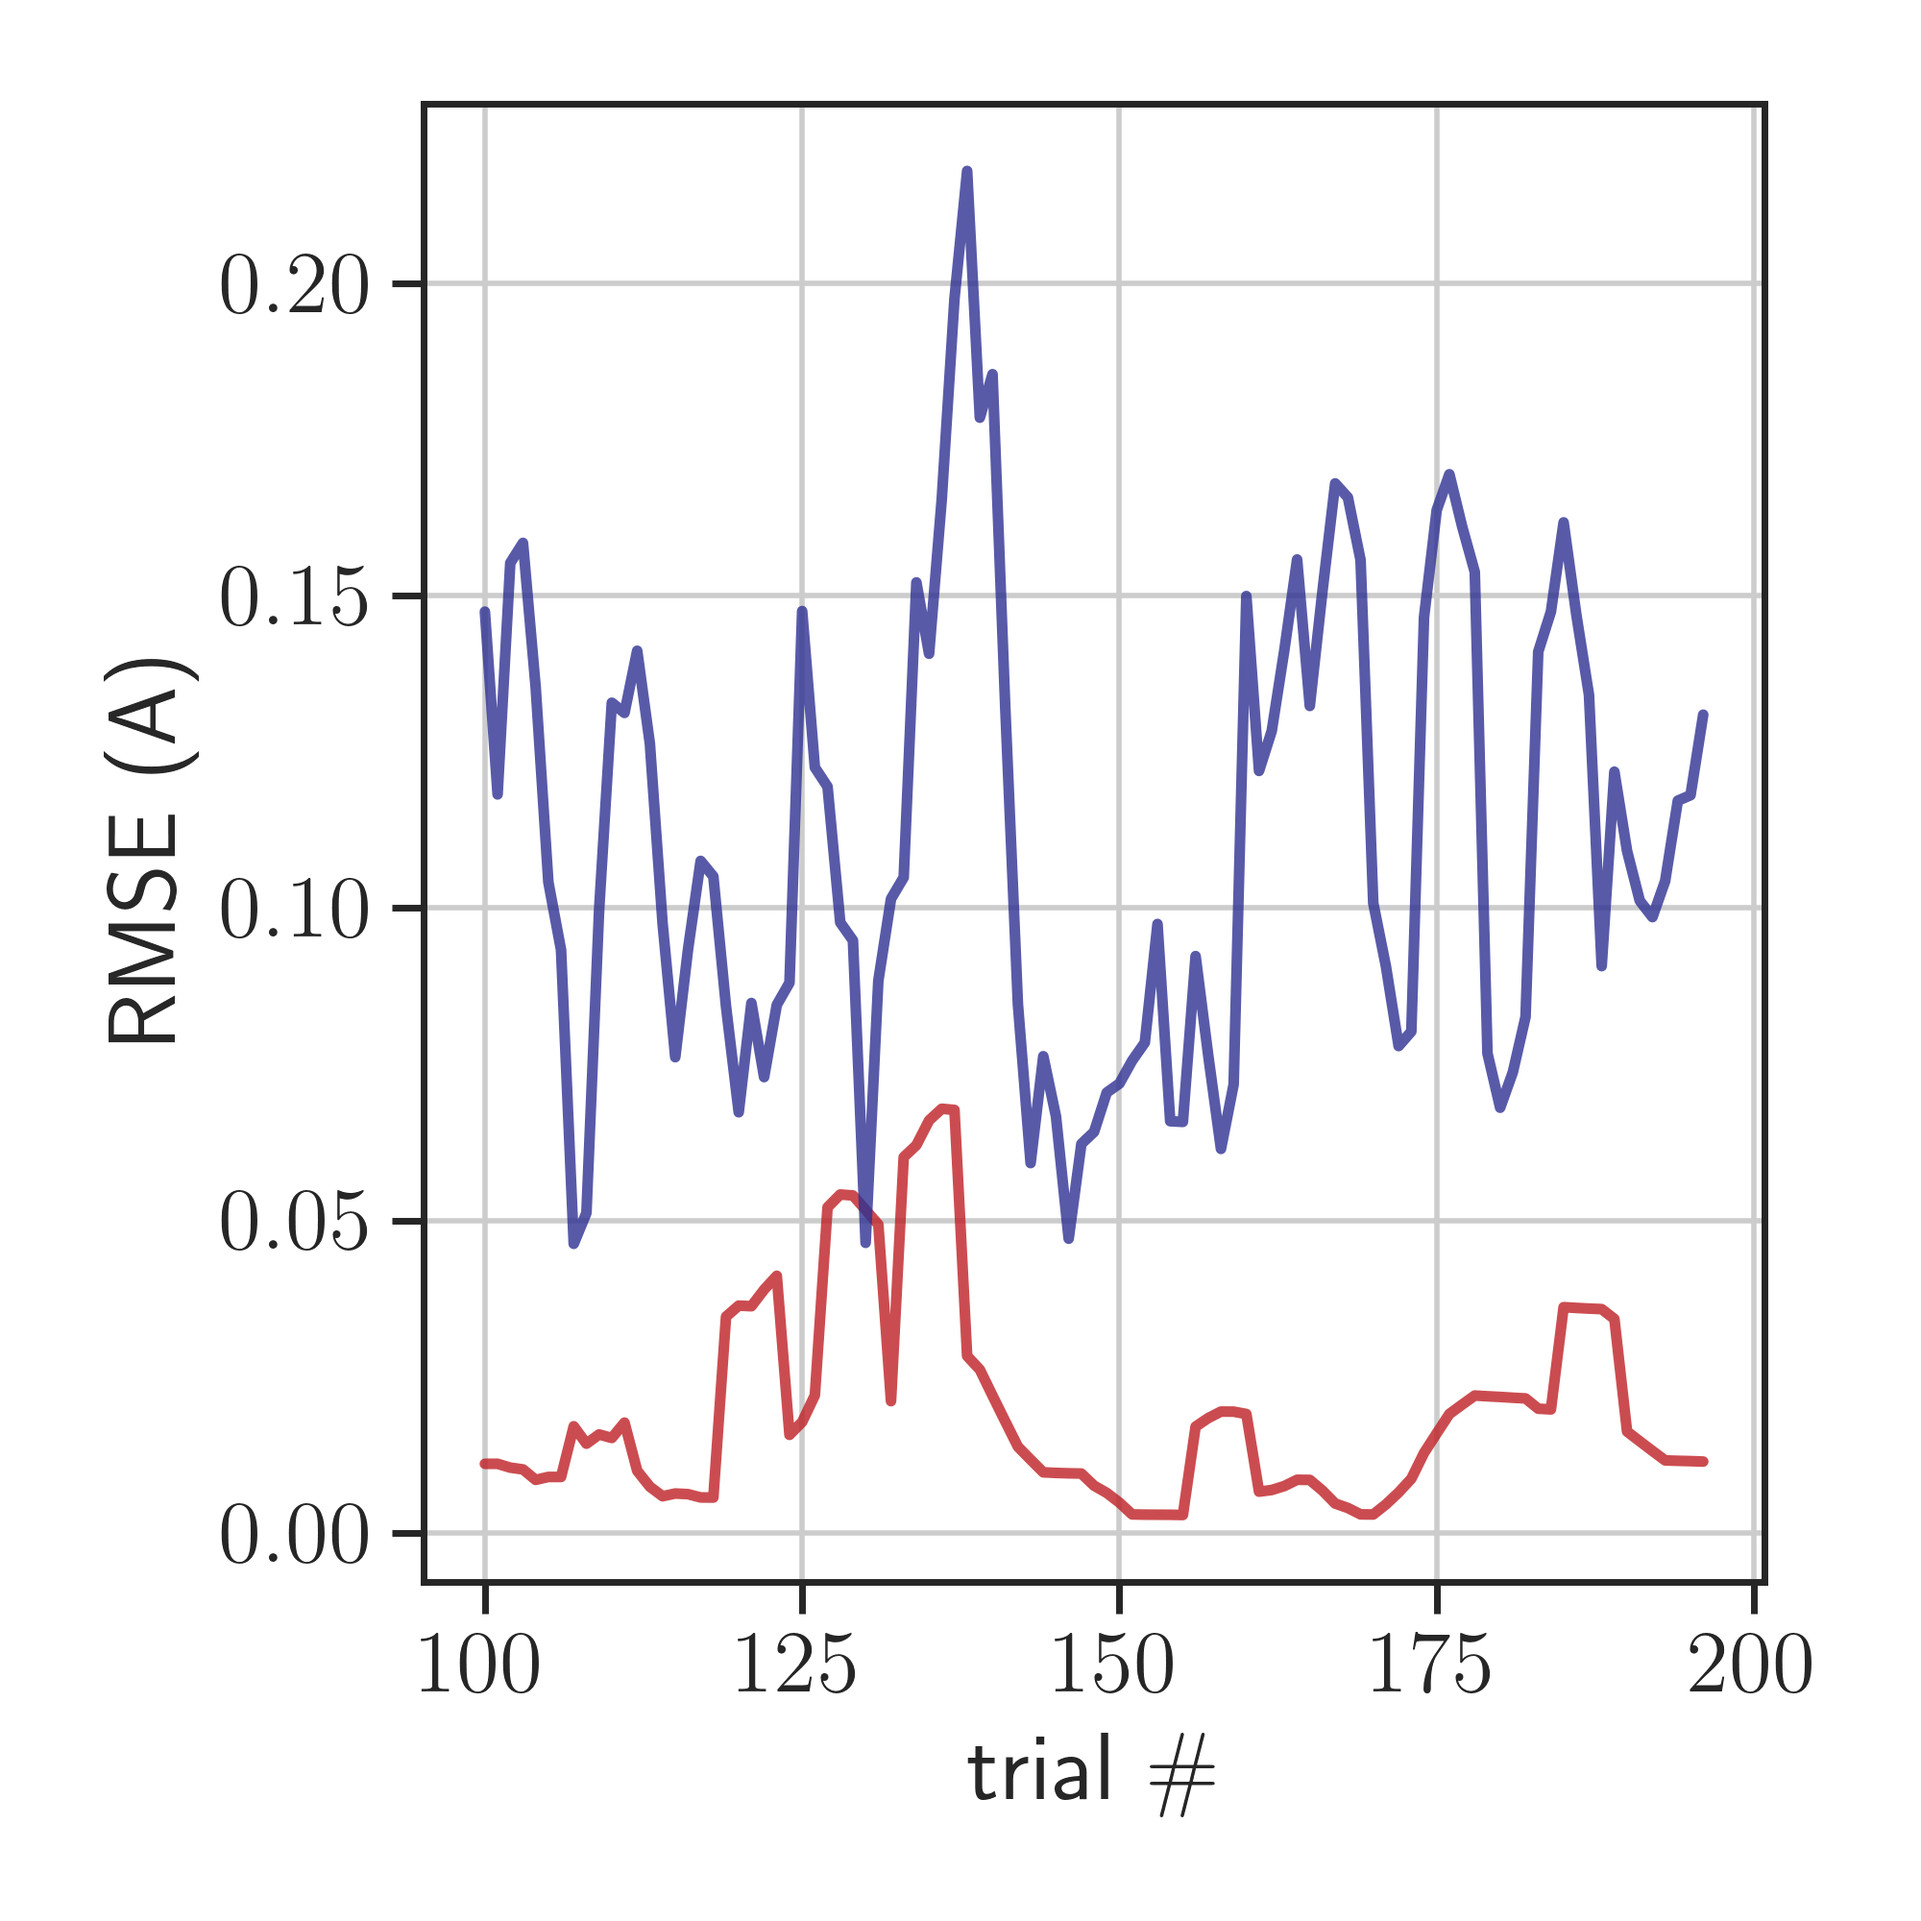
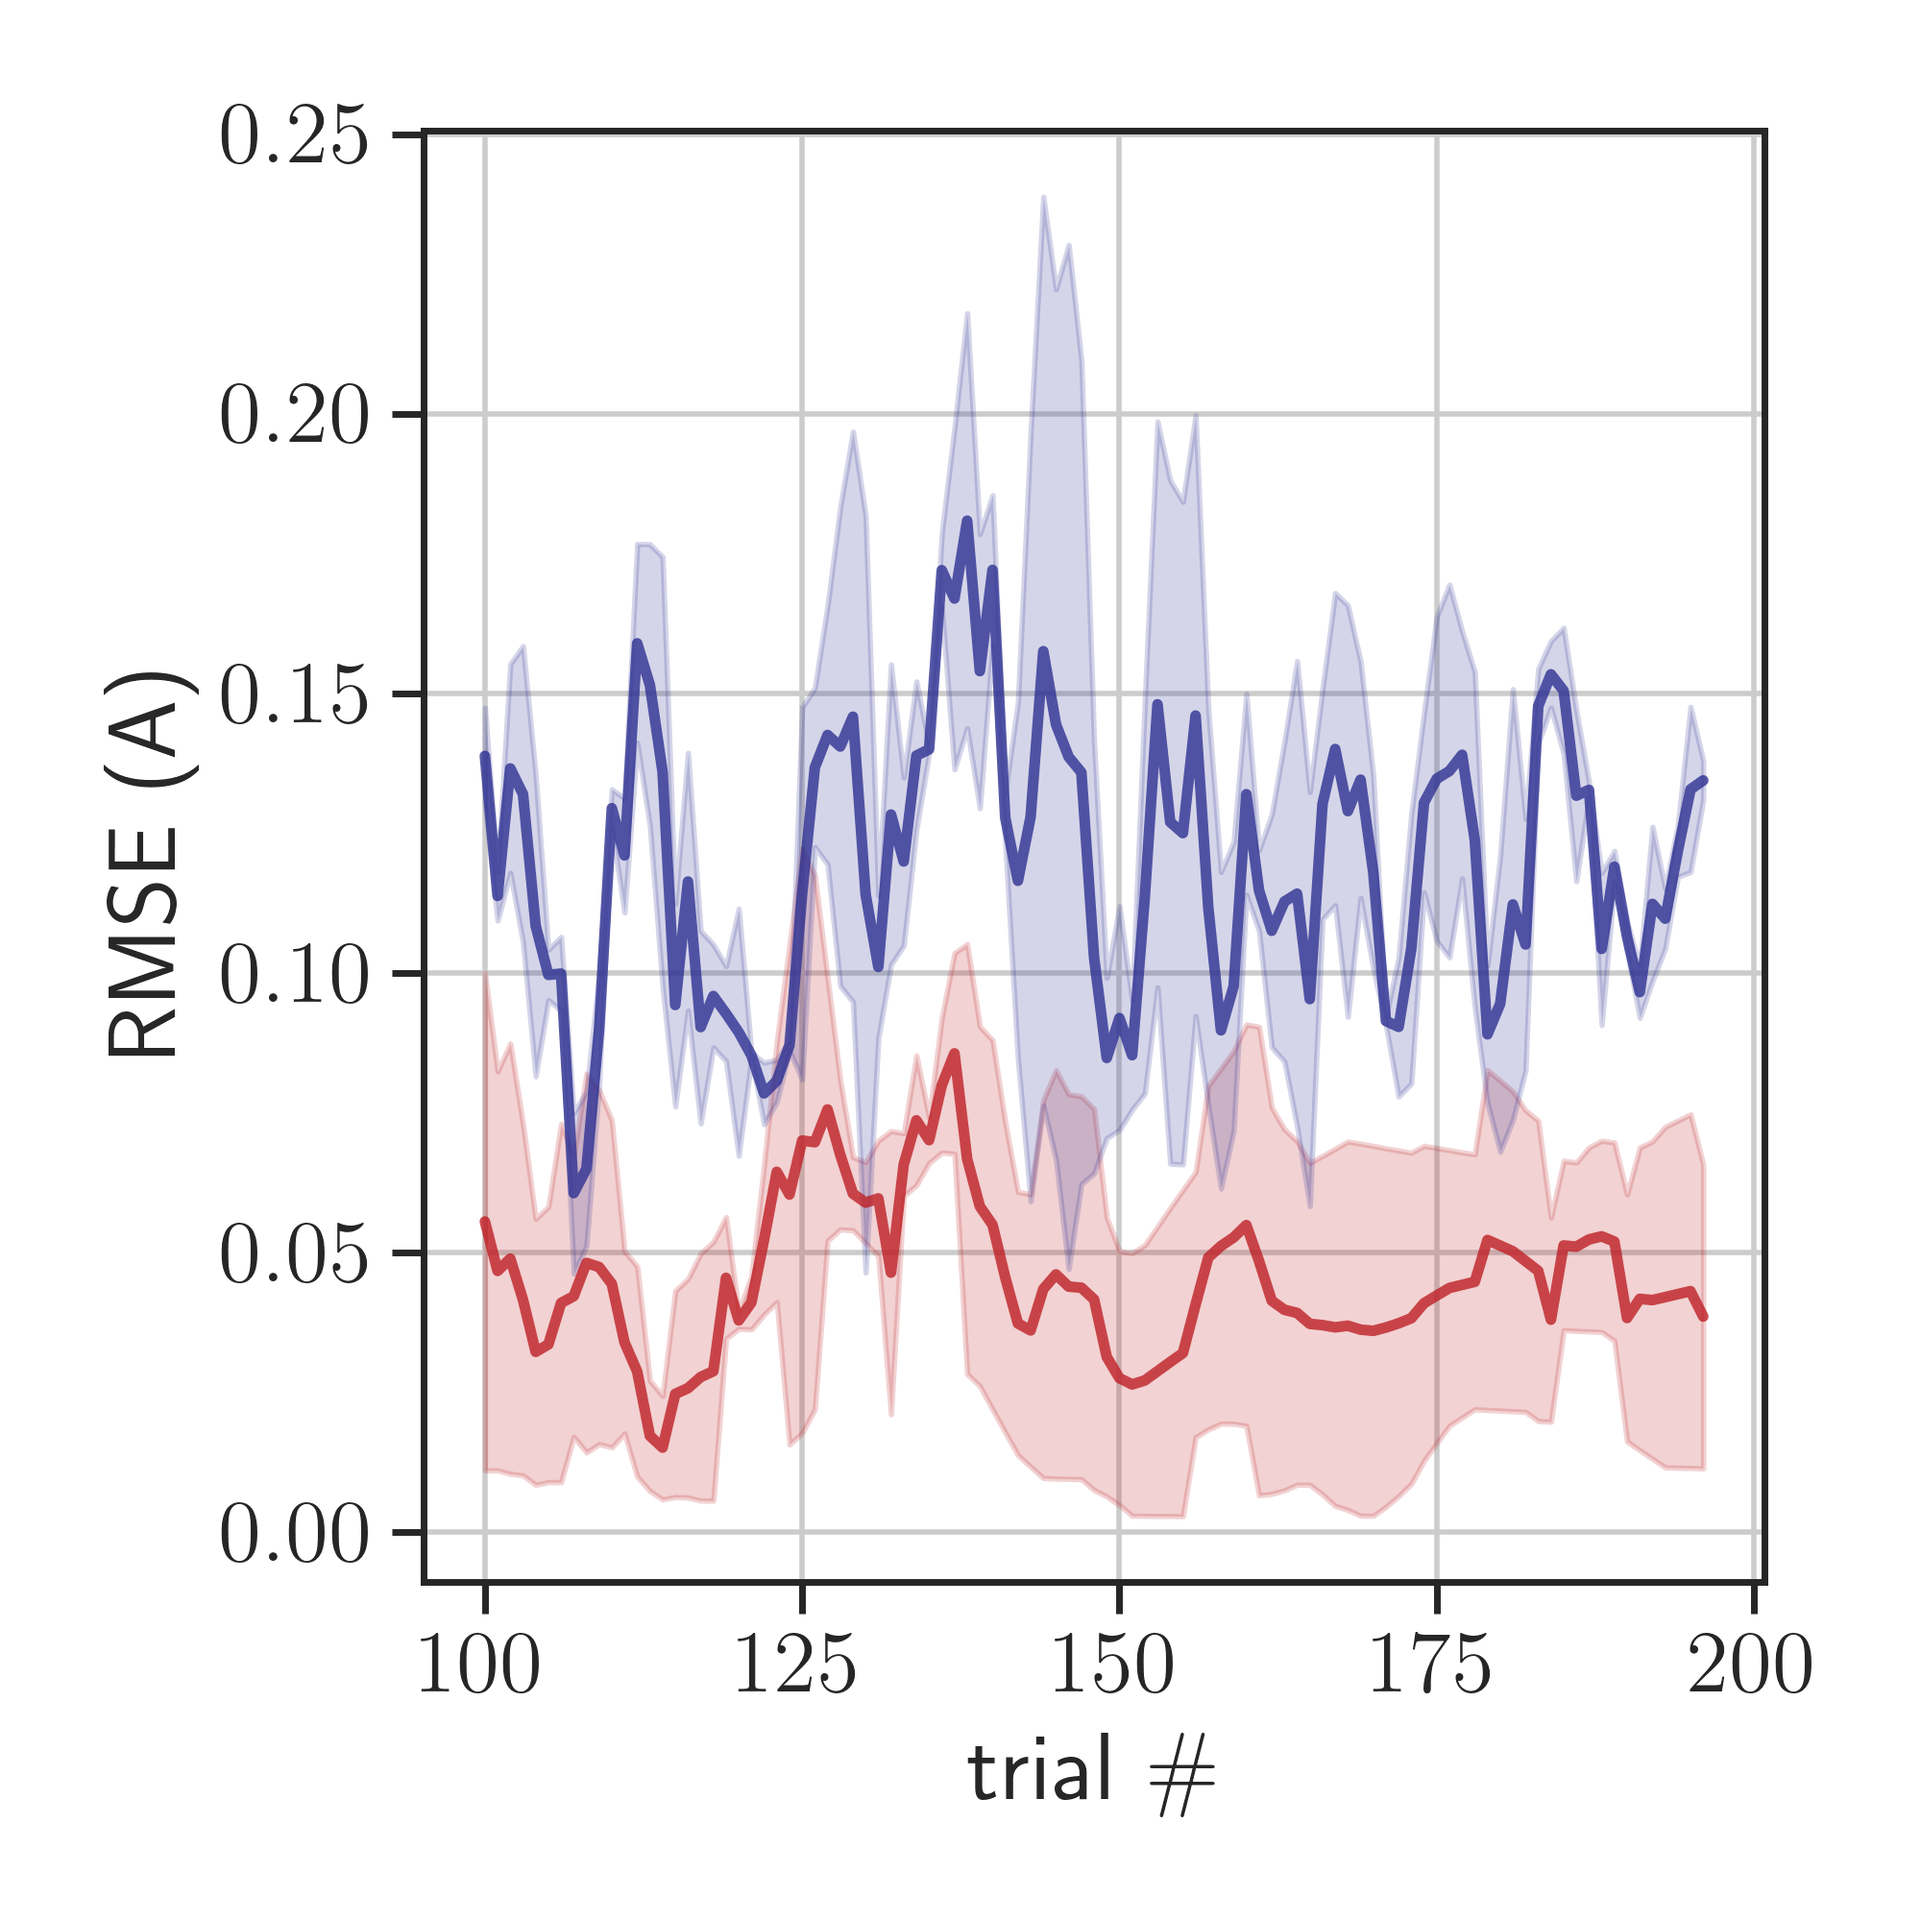
multi-seed experiments

diff --git a/mglm/plot_err.py b/mglm/plot_err.py
@@ -40,7 +40,7 @@ true_weights = np.reshape(true_weights, (num_states,input_dim))
 
 def plot_rmse_w():
     # Plotting error in weights
-    num_repeats = 1
+    num_repeats = 2
     error=[]
     for seed in np.arange(num_repeats):
         error_in_weights_dlfm = np.load(os.path.join(npy_dir, "dlfm", "101", f"dlfm_error_in_weights_atseed{seed}.npy"))
@@ -72,7 +72,7 @@ def plot_rmse_w():
 
 def plot_rmse_pi():
     # Plotting error in weights
-    num_repeats = 1
+    num_repeats = 2
     error=[]
     for seed in np.arange(num_repeats):
         error_in_pis_dlfm = np.load(os.path.join(npy_dir, "dlfm", "101", f"dlfm_error_in_pis_atseed{seed}.npy"))

diff --git a/mglm/dlfm.py b/mglm/dlfm.py
@@ -183,6 +183,6 @@ def main(seed):
 
 
 if __name__ == "__main__":
-    seed = 0
+    seed = 1
     np.random.seed(seed)
     main(seed)
